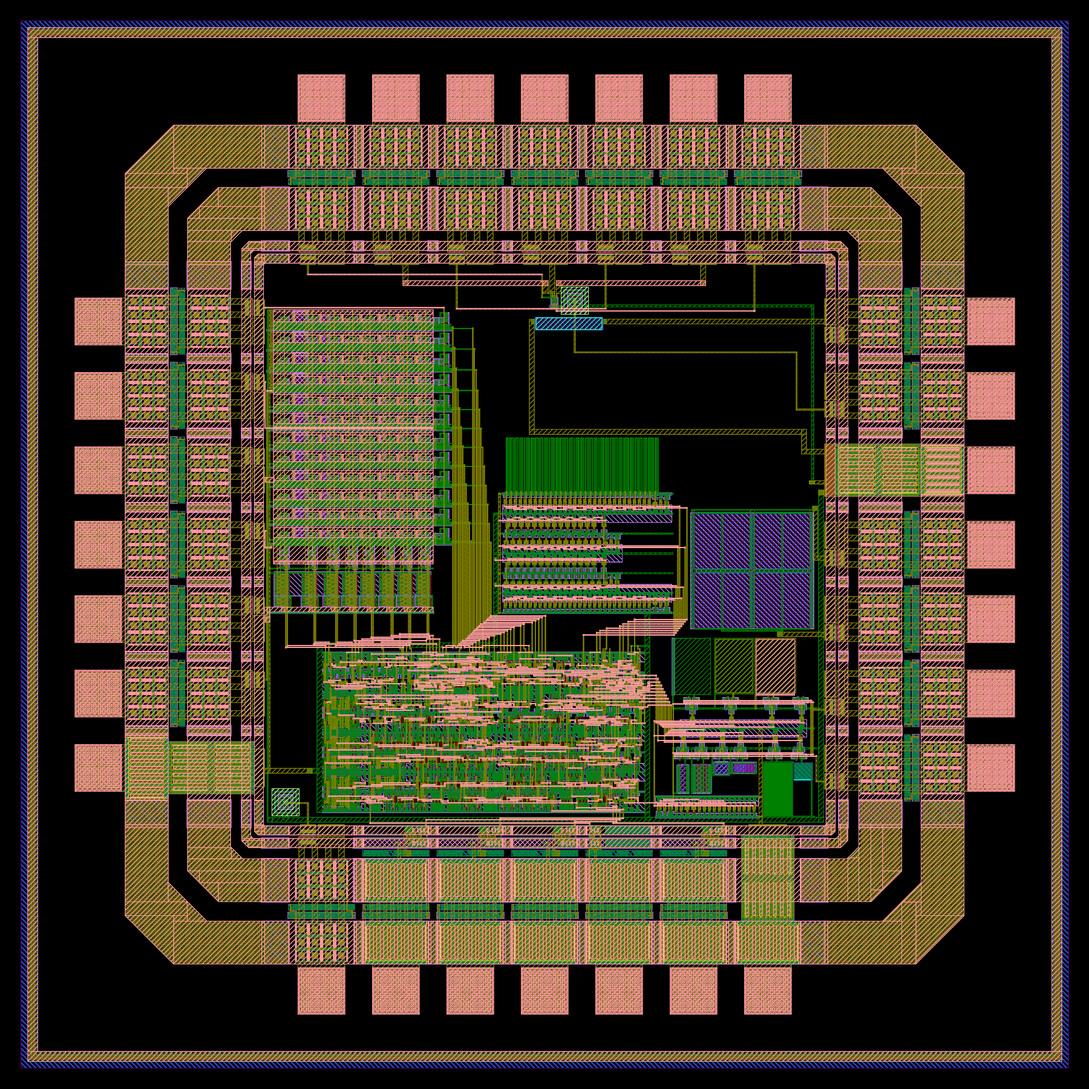
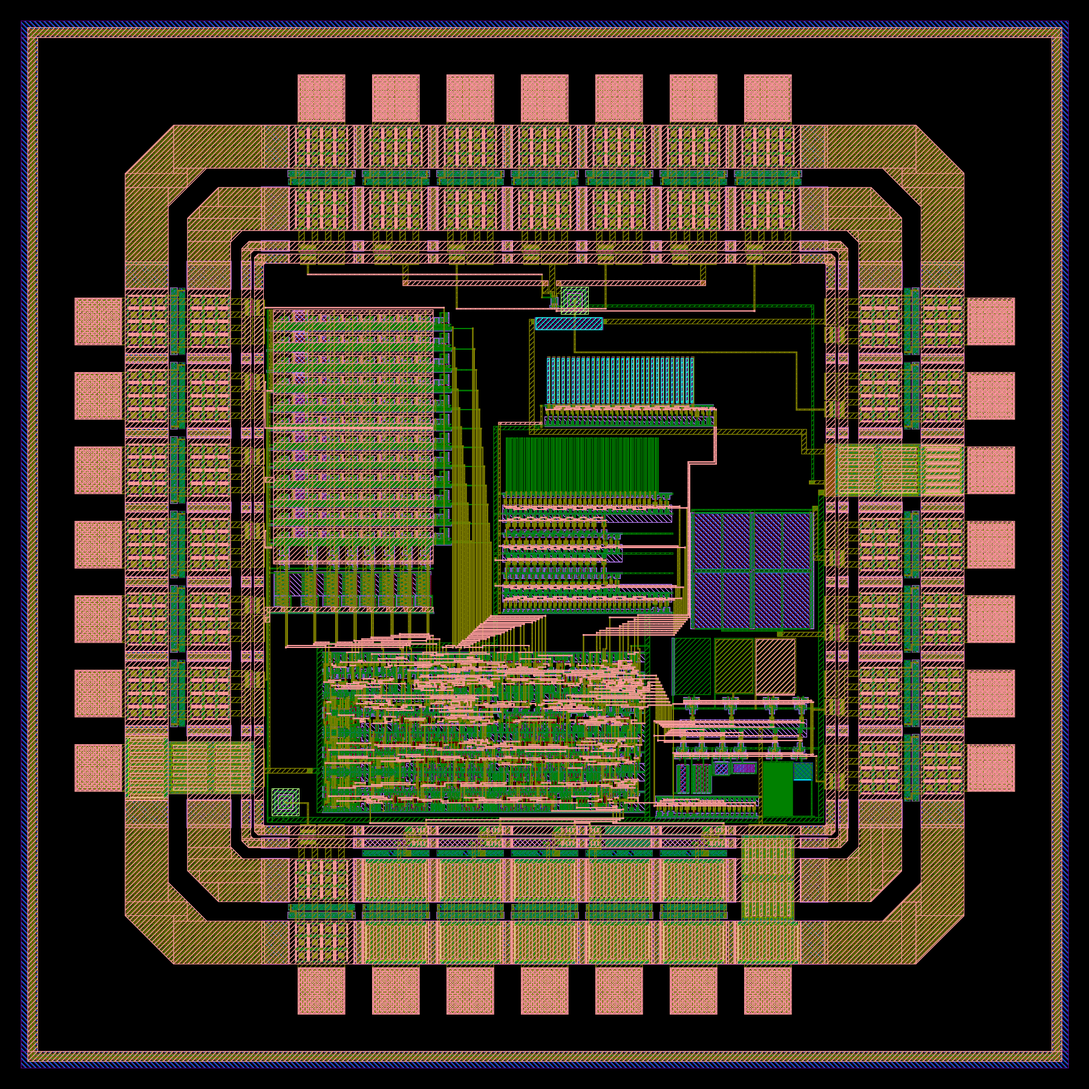
Place the resistor RO in the chip
The block sits at die (932.0, 1166.0) above the heater's return line.
en5 / in5 cross the return line in metal3, run down the gap between the
RO bank and MOS-C and join the corridor over the control block on two more
tracks to ro_en[5] / ro_in[5]; ro_in5 is no longer tied to VSS. VDD and
VSS come from the RO bank's west straps, apart from the heater's own
return. run_chip.sh: 12 blocks, official deck 46 (unchanged), rules 7-12
16 (all in the pad-ring baseline), 85 nets / 237 points PASS, no antenna
violation without diffusion; a fresh checkout reproduces the same GDS.

Changed region(s): [[0.4356, 0.3111, 0.6844, 0.4667], [0.5911, 0.56, 0.6222, 0.5911]]

diff --git a/designs/etri050/chip/assemble.py b/designs/etri050/chip/assemble.py
@@ -10,6 +10,8 @@ ring keeps its own die coordinates, 97.5-1802.5 um):
   karray        designs/etri050/array/build/karray.gds        (etri050_array.py, Magic style ETRI)
   cbcm          designs/etri050/cbcm/build/cbcm_full.gds      (etri050_cbcm.py: Magic, flattened, + PIP)
   robank        designs/etri050/ro/build/robank_flat.gds      (etri050_ro.py: Magic, flattened)
+  rores         designs/etri050/ro/build/rores_full.gds       (etri050_ro.py: Magic, flattened, + poly2
+                                                               resistors)
 
 The routes drawn here follow the rule document v1.1, not only the kit deck: VIA1/VIA2 exactly
 0.8 x 0.8 um and 0.8 um apart with 0.6 um of metal around, no via1 on a contact and no via2 on a
@@ -19,7 +21,8 @@ lines are 9 um wide, just under the 10 um wide-metal class. Every coordinate is 
 
 Floorplan (die um; the core window inside the GPIO cells is 442-1458): control block at x 537-1141,
 y 460-761 (the array above it, the CBCM block at x 1144-1440, y 454-781 to its right, the RO bank at
-x 856-1210, y 823-1146 above it right of the array's row bus); scan channel y 442-460
+x 856-1210, y 823-1146 above it right of the array's row bus, the resistor RO at x 932-1262,
+y 1162-1291 above the heater's return line); scan channel y 442-460
 under it; VSS as a metal1 line along the south and east edges from PVSS (E5) to the control block
 ground bar and PNP2, plus a separate branch from PVSS to PNP1 and the L-split substrate tap; MOS-C on
 the east edge between CHI (E3) and CLO (E4); L-split under its source force pad (N4) with the force
@@ -28,7 +31,7 @@ group of the plan (heater + PNP + reference device): PNP1 beside the L-split (37
 L-split channel and the PNP1 emitter), the heater under both, its long edge 32 um from each, so a
 heater power warms the L-split and PNP1 alike and PNP1 also sees the L-split's own heating; the
 heater return goes on its own line into PVSS. PNP2 in the far (south-west) corner next to PE2 (S1),
-about 1 mm from the heater. The ro_in inputs of the ROs not built (FO4, resistor) are tied to the
+about 1 mm from the heater. The ro_in input of the RO not built (FO4, index 3) is tied to the
 control block's ground bar.
 
 Chip boundary and seal ring (-rd seal=0 leaves both out): the MyChip MPW standard chip is 1.9 x 1.9
@@ -42,6 +45,7 @@ placements) for chip_check.py.
 usage: klayout -b -r designs/etri050/chip/assemble.py -rd repo=<repo root> [-rd out=<dir>]
        [-rd pad=<pdkv_Pad.gds>] [-rd direct=<dir with lsplit, mosc, pnp10, heater .gds>] [-rd seal=0]
        [-rd array=<karray.gds>] [-rd cbcm=<cbcm_full.gds>] [-rd robank=<robank_flat.gds>]
+       [-rd rores=<rores_full.gds>]
 """
 import json
 import os
@@ -63,10 +67,12 @@ SRC = {
     'karray': globals().get('array') or os.path.join(REPO, 'designs/etri050/array/build/karray.gds'),
     'cbcm': globals().get('cbcm') or os.path.join(REPO, 'designs/etri050/cbcm/build/cbcm_full.gds'),
     'robank': globals().get('robank') or os.path.join(REPO, 'designs/etri050/ro/build/robank_flat.gds'),
+    'rores': globals().get('rores') or os.path.join(REPO, 'designs/etri050/ro/build/rores_full.gds'),
 }
 ARRPINS = os.path.join(os.path.dirname(SRC['karray']), 'karray_pins.json')
 CBPINS = os.path.join(os.path.dirname(SRC['cbcm']), 'cbcm_pins.json')
 ROPINS = os.path.join(os.path.dirname(SRC['robank']), 'robank_pins.json')
+RRPINS = os.path.join(os.path.dirname(SRC['rores']), 'rores_pins.json')
 SEAL = str(globals().get('seal', '1')) != '0'
 PINFILE = os.path.join(REPO, 'designs/etri050/ctrl/macro/teg_ctrl_pins.txt')
 PADFILE = os.path.join(os.path.dirname(SRC['pad']), 'pad_pins.json')
@@ -244,11 +250,12 @@ rect('m1', 1131.60, 450.00, 1140.60, 465.00)              # up into the control 
 port_probe('VSS', 'E5:PVSS')
 expect('VSS', 'ctrl gnd bar', 'm1', 1136.10, 600.00)
 
-# ---- control block: ro_in inputs of the ROs not built (FO4 3, resistor 5) tied to the gnd bar --------
+# ---- control block: ro_in input of the RO not built (FO4, 3) tied to the gnd bar ----------------------
 # The gnd bar runs on up into the RO bank's bottom gnd rail (y 824.8-827.2); see the RO bank below.
+# ro_in[5]'s metal2 crosses this metal1 strip without a via (resistor RO, below).
 rect('m1', 1131.60, 753.50, 1140.60, 827.20)
 rect('m1', 1105.30, 765.00, 1140.60, 767.00)
-for i in (3, 5):
+for i in (3,):
     x1, y1, x2, y2 = pin_die(f'ro_in[{i}]')
     rect('m2', x1, y2 - 0.50, x2, 767.00)
     via(1, snap_down((x1 + x2) / 2), 766.00)
@@ -653,6 +660,58 @@ rect('m1', vx1, 763.00, vx2, vy2)
 expect('VDD', 'robank VDD strap', 'm1', (vx1 + vx2) / 2, RB[1] + 30.00)
 expect('VSS', 'robank bottom gnd rail', 'm1', RB[0] + 100.00, RB[1])
 expect('VSS', 'robank top gnd rail', 'm1', RB[0] + 100.00, RB[1] + 216.00)
+
+# ---- resistor RO (block rores, etri050_ro.py; rores_full.gds = Magic's flattened copy + the resistors) ---
+# Block origin at die (932.0, 1166.0): the free strip above the heater's return line (metal2 y 1150-1159,
+# its rise x 922-931), under PE1 (metal2 y 1298), x 932-1405. en5 / in5 leave the block's east channel at
+# its bottom edge (in5 west of en5), cross the return line in metal3, jog west at y 1096 / 1100 over the
+# free area above MOS-C, run down the gap between the RO bank (metal3 to x 1208.9) and MOS-C (no metal3;
+# its N-well from x 1214.8) and join the corridor over the control block on two more tracks (in5 822,
+# en5 818: the net with the eastern riser takes the lower track, so the two L's nest without crossing).
+# Power from the RO bank's west straps: VDD (metal1 x 857.2-863.8, up from y 1007.2) on up and east on a
+# metal1 line under the return line's rise; VSS (metal2 x 866.2-869.2, up from y 1043.2) on up, then
+# metal3 east over the rise onto the block's VSS strap.
+RR = (932.00, 1166.00)
+place('rores', *RR, name='rores')
+rrj = json.load(open(RRPINS))
+if [round(v, 2) for v in rrj['origin_die']] != list(RR):
+    raise RuntimeError(f"rores_pins.json was drawn for origin {rrj['origin_die']}, not {RR}")
+
+
+def rrpin(name):
+    x0, y0, x1, y1 = rrj['pins'][name]['box']
+    return round(RR[0] + x0, 3), round(RR[1] + y0, 3), round(RR[0] + x1, 3), round(RR[1] + y1, 3)
+
+
+RES_ROUTE = {'in5': dict(jog=1100.00, rise=1210.60, track=822.00),
+             'en5': dict(jog=1096.00, rise=1212.85, track=818.00)}
+for net, rt in RES_ROUTE.items():
+    pin = f"ro_{net[:2]}[5]"
+    px1, py1, px2, py2 = pin_die(pin)
+    pcx = round((px1 + px2) / 2, 2)
+    bx1, by1, bx2, by2 = rrpin(net)
+    bcx = round((bx1 + bx2) / 2, 2)
+    via(2, bcx, by1 + 1.00)                                # onto the channel line's bottom end
+    rect('m3', bcx - 0.60, rt['jog'] - 0.60, bcx + 0.60, by1 + 1.00)
+    rect('m3', rt['rise'] - 0.60, rt['jog'] - 0.60, bcx + 0.60, rt['jog'] + 0.60)
+    rect('m3', rt['rise'] - 0.60, rt['track'] - 0.60, rt['rise'] + 0.60, rt['jog'] + 0.60)
+    rect('m3', pcx - 1.00, rt['track'] - 0.60, rt['rise'] + 0.60, rt['track'] + 0.60)
+    via(2, pcx, rt['track'])
+    rect('m2', pcx - 0.60, py2 - 0.50, pcx + 0.60, rt['track'])     # down into the control block pin
+    expect('RO_' + net.upper(), f'ctrl {pin}', 'm2', pcx, py2 - 0.30)
+    expect('RO_' + net.upper(), f'rores {net}', 'm2', bcx, by1 + 0.30)
+    expect('RO_' + net.upper(), f'gap riser {net}', 'm3', rt['rise'], 950.00)
+rvx1, rvy1, rvx2, rvy2 = rrpin('VDD')
+rect('m1', vx1, RB[1] + 181.00, vx2, 1164.80)              # RO bank VDD strap (top y 1007.2) on up
+rect('m1', vx1, 1158.20, rvx2, 1164.80)                    # east under the return line's rise
+expect('VDD', 'rores VDD strap', 'm1', (rvx1 + rvx2) / 2, (rvy1 + rvy2) / 2)
+rsx1, rsy1, rsx2, rsy2 = rrpin('VSS')
+rect('m2', RB[0] + 10.20, RB[1] + 217.00, RB[0] + 13.20, 1172.00)  # RO bank VSS strap (top y 1043.2) on up
+vias(2, RB[0] + 10.20, 1168.00, RB[0] + 13.20, 1172.00)
+rect('m3', RB[0] + 10.20, 1168.00, rsx2, 1172.00)
+vias(2, rsx1, 1168.00, rsx2, 1172.00)
+expect('VSS', 'rores gnd rail', 'm1', RR[0] + 100.00, RR[1] + 36.00)
+expect('VSS', 'rores VSS strap', 'm2', (rsx1 + rsx2) / 2, (rsy1 + rsy2) / 2)
 
 # ---- seal ring: its three metals are one piece through its via lines and join no other net --------
 if SEAL:

diff --git a/designs/etri050/chip/README.md b/designs/etri050/chip/README.md
@@ -1,6 +1,6 @@
 # 칩 조립 pdkv
 
-PDK 모델 검증용 온칩 특성화 IC의 최상위 조립이다. 킷의 칩 조립 방식(FIR_PE MPW240925002, pong_pt1 MPW2025 STD-II)처럼 패드 링(`pdkv_Pad`)과 코어를 따로 만들어 최상위 `pdkv_Top`으로 합친다. 지금 칩은 패드 링 + 제어 블록 + 직결 기준 소자(L-split, MOS-C, PNP 2개, 히터) + Kelvin 소자 어레이 + CBCM 블록 + RO 뱅크(INV·NAND·NOR·배선)로 된 제출 가능판이고, 저항 RO는 히터 귀환선 위 빈 띠에 더한다.
+PDK 모델 검증용 온칩 특성화 IC의 최상위 조립이다. 킷의 칩 조립 방식(FIR_PE MPW240925002, pong_pt1 MPW2025 STD-II)처럼 패드 링(`pdkv_Pad`)과 코어를 따로 만들어 최상위 `pdkv_Top`으로 합친다. 지금 칩은 패드 링 + 제어 블록 + 직결 기준 소자(L-split, MOS-C, PNP 2개, 히터) + Kelvin 소자 어레이 + CBCM 블록 + RO 뱅크(INV·NAND·NOR·배선) + 저항 RO로 된 제출 가능판이다.
 
 ```
 pins.csv          28개 패드: 패드 위치(W1–W7 아래→위, N1–N7 왼→오, E1–E7 아래→위, S1–S7 왼→오), 핀, 셀, 포트, 기능, 범위
@@ -8,7 +8,7 @@ pad_ring.py       킷 28핀 GPIO 템플릿 → build/pdkv_Pad.mag, build/pad_pin
 run_pad_ring.sh   패드 링 생성 → Magic GDS(lambda=0.30(ETRI-G)) → 공식 규칙 KLayout DRC, 킷 템플릿 링과 비교
 assemble.py       블록 배치 + 배선 + 칩 경계·실링 → build/pdkv_Top.gds, build/pdkv_seal.gds, build/pdkv_nets.json(검사할 넷과 블록 위치)
 chip_check.py     금속 연결 검사(끊김, 단락, 떠 있는 금속)와 0.01 µm 격자 검사
-run_chip.sh       입력이 없으면 만들고(패드 링, 직결 소자, PDK 셀, 어레이, CBCM, RO 뱅크) 조립 → 공식 규칙 덱 → 문서 기준 금속·실링 규칙
+run_chip.sh       입력이 없으면 만들고(패드 링, 직결 소자, PDK 셀, 어레이, CBCM, RO 뱅크·저항 RO) 조립 → 공식 규칙 덱 → 문서 기준 금속·실링 규칙
                   → 연결 검사 → 안테나(scripts/antenna_rules.py)
 ```
 
@@ -42,17 +42,18 @@ bash designs/etri050/chip/run_chip.sh --rebuild   # 패드 링·직결 소자·P
 
 | 블록 | GDS | 위치(다이 좌표 µm) | 연결 |
 |---|---|---|---|
-| 제어 블록 `teg_ctrl_F` | `ctrl/macro/teg_ctrl.gds.gz`(고정 매크로, 아래) | x 537.0–1140.9, y 460.0–761.1 | 스캔 5핀 → S2–S6, vdd 막대 ← W1 PVDD, gnd 막대 ← VSS, 위 변 선택 핀 40개 → 어레이, `ro_en`·`ro_in` 0·1·2·4 ↔ RO 뱅크, `ro_in` 3·5 → gnd(블록이 없는 RO), `ro_en` 3·5는 열어 둠(출력) |
+| 제어 블록 `teg_ctrl_F` | `ctrl/macro/teg_ctrl.gds.gz`(고정 매크로, 아래) | x 537.0–1140.9, y 460.0–761.1 | 스캔 5핀 → S2–S6, vdd 막대 ← W1 PVDD, gnd 막대 ← VSS, 위 변 선택 핀 40개 → 어레이, `ro_en`·`ro_in` 0·1·2·4 ↔ RO 뱅크, 5 ↔ 저항 RO, `ro_in3` → gnd(만들지 않은 FO4), `ro_en3`은 열어 둠(출력) |
 | Kelvin 어레이 `karray` | `array/build/karray.gds`(`gen/etri050_array.py`, `../array/README.md`) | 원점 (458.0, 950.0), x 445–781, y 824–1376 | 선택선 40개 ← 제어 블록(채널·버스, 아래), ANW·ADF·ADS·ASF·ASS·AG ← 서쪽 패드 W2–W7, VDD 띠 → W1 VDD 선, VSS 띠 → 남쪽 VSS 선 |
 | CBCM `cbcm` | `cbcm/build/cbcm_full.gds`(`gen/etri050_cbcm.py`, `../cbcm/README.md`) | 원점 (1144.0, 456.0), x 1144.0–1439.8, y 454.2–780.6 | clk·en0–9 ← 제어 블록 오른쪽 변 핀, VCD → E1, VCR → E2(PADR), VDD ← S7 PVDD, VSS → 남쪽·동쪽 VSS 선 |
 | RO 뱅크 `robank` | `ro/build/robank_flat.gds`(`gen/etri050_ro.py`, Magic 평탄화 사본, `../ro/README.md`) | 원점 (856.0, 826.0), x 857.2–1208.9, y 823.0–1144.0 | ro_en·ro_in 0·1·2·4 ↔ 제어 블록 위 변 핀, VDD ← 제어 블록 vdd 막대, VSS ← 제어 블록 gnd 막대 |
+| 저항 RO `rores` | `ro/build/rores_full.gds`(`gen/etri050_ro.py`, Magic 평탄화 사본 + KLayout으로 넣은 poly2 저항 30개, `../ro/README.md`) | 원점 (932.0, 1166.0), x 933.2–1262.1, y 1161.8–1291.15 | ro_en5·ro_in5 ↔ 제어 블록 위 변 핀(RO 뱅크와 MOS-C 사이 틈으로), VDD·VSS ← RO 뱅크 서쪽 기둥 |
 | L-split | `direct/build/lsplit.gds` | 활성 영역 왼쪽 아래 (962.9, 1388.0) | force LD1F·LSF·LD2F → N2·N4·N6(PAD), sense → N3·N5·N7(PADR), LG → N1, 기판 탭 → VSS |
 | MOS-C(위아래 뒤집음) | `direct/build/mosc.gds` | x 1214.8–1438.0, y 792.6–1013.7 | 게이트 막대(아래) → CHI(E3), N-well·p+ 막대(위) → CLO(E4) |
 | PNP1 | `direct/build/pnp10.gds` | x 980.0–1029.0, y 1368.0–1417.0(L-split 바로 옆) | E → PE1(E6), B·C → VSS 가지, L-split 기판 탭과 짧은 금속1로 이어짐 |
 | 히터(180° 회전) | `direct/build/heater.gds` | x 932.0–1056.0, y 1340.0–1361.6(L-split·PNP1 아래) | A(동쪽 머리) → HT(E7 PAD), B(서쪽 머리) → PVSS 전용 귀환선 |
 | PNP2 | 같음 | x 455.0–504.0, y 458.0–507.0(남서 모서리) | E → PE2(S1), B·C → 남쪽 VSS 선 |
 
-![pdkv_Top: 패드 링 안에 제어 블록(가운데 아래), 그 오른쪽 CBCM 블록, Kelvin 어레이(왼쪽 위)와 그 오른쪽 행 선택 버스, 버스 오른쪽·제어 블록 위 RO 뱅크(맨 위 줄 위로 배선 RO 사행선), MOS-C(오른쪽, CBCM 위), L-split·PNP1·히터 열 묶음(위 가운데), PNP2(왼쪽 아래 모서리)](../../../docs/img/pdkv_top.png)
+![pdkv_Top: 패드 링 안에 제어 블록(가운데 아래), 그 오른쪽 CBCM 블록, Kelvin 어레이(왼쪽 위)와 그 오른쪽 행 선택 버스, 버스 오른쪽·제어 블록 위 RO 뱅크(맨 위 줄 위로 배선 RO 사행선)와 히터 귀환선 너머 저항 RO(셀 한 줄 위에 선 poly2 저항 30개), MOS-C(오른쪽, CBCM 위), L-split·PNP1·히터 열 묶음(위 가운데), PNP2(왼쪽 아래 모서리)](../../../docs/img/pdkv_top.png)
 
 ![열 묶음 확대: L-split(가운데 왼쪽)과 force 팬아웃, 바로 옆 PNP1, 둘 아래 히터, sense 선(가는 금속3)과 히터 HT·귀환선(굵은 금속2)](../../../docs/img/pdkv_top_thermal.png)
 
@@ -62,7 +63,7 @@ bash designs/etri050/chip/run_chip.sh --rebuild   # 패드 링·직결 소자·P
 
 RO 뱅크는 어레이 행 버스 오른쪽, 제어 블록 위에 넣었다: 제어 블록 위 변의 ro_en·ro_in 핀과 vdd·gnd 막대에 가깝고, 위 끝(배선 RO 사행선, y 1144.0)은 히터 귀환선(y 1150) 아래다. CBCM은 제어 블록 오른쪽에 두어 제어 블록의 CBCM 핀(오른쪽 변)과 E1·E2(VCD, VCR), S7 PVDD에 가깝다.
 
-남은 빈 자리(칩 GDS의 모든 층을 2 µm 격자로 찍어 잰 것): 히터 귀환선 위 띠 x 932–1405, y 1160–1297(아래 귀환선, 위 PE1 금속2 y 1298, 동쪽 PE1 세로 x 1406; 저항 RO를 넣을 자리), MOS-C 위 x 1184–1416, y 1022–1150, 행 버스 위 x 836–922, y 1144–1376, 제어 블록 왼쪽 x 452–536, y 544–762.
+저항 RO는 RO 뱅크 자리에 들어가지 않아, 칩 GDS의 모든 층을 2 µm 격자로 찍어 찾은 빈 띠(히터 귀환선 위 x 932–1405, y 1160–1297: 아래 귀환선 금속2, 위 PE1 금속2 y 1298, 서쪽 귀환선 세로 x 922–931, 동쪽 PE1 세로 x 1406)의 서쪽에 넣었다(x 933.2–1262.1, y 1161.8–1291.15; PE1까지 6.85 µm). 열 묶음과는 히터 아래 변(y 1340)까지 48.85 µm 떨어지고, RO는 열 측정과 따로 켠다. 남은 빈 자리: 같은 띠 동쪽 x 1264–1405, MOS-C 위 x 1216–1416, y 1022–1150(저항 RO의 en5·in5 금속3이 y 1095–1101과 x 1257–1262로 지남), 행 버스 위 x 836–922, y 1144–1376(저항 RO의 VDD·VSS 선이 x 857–869와 y 1158–1172로 지남), 제어 블록 왼쪽 x 452–536, y 544–762.
 
 ### 배선 규칙
 
@@ -81,6 +82,7 @@ RO 뱅크는 어레이 행 버스 오른쪽, 제어 블록 위에 넣었다: 제
   2. 포트 가운데(y 1060–1066) → 금속1(x 1434–1438)로 동쪽을 따라 올라가 y 1381–1385로 PNP1 콜렉터 고리(동쪽 변) → 짧은 금속1로 L-split 기판 탭. 온도계와 기준 소자의 접지에 디지털 전류가 흐르지 않게 한다.
   3. 포트 위쪽(y 1114–1123) ← 히터 B(서쪽) 머리의 전용 귀환선(금속2 9 µm). 귀환선은 RO 자리(y 1142 아래)를 피해 y 1150–1159로 동쪽으로 간다.
 - RO 뱅크: VDD는 제어 블록 vdd 막대를 위로 늘이고(y 772까지), 금속1 9 µm 선(y 763–772)으로 동쪽에 가 블록 서쪽 VDD 기둥(금속1, x 857.2–863.8)으로 올라간다. 이 선은 어레이 채널의 금속2 꽂이 아래를 지나고 제어 블록 위 변(y 761.1)과 1.9 µm 떨어진다. VSS는 제어 블록 gnd 막대(금속1 9 µm, x 1131.6–1140.6)를 위로 늘여 블록 맨 아래 gnd 레일(y 824.8–827.2)에 붙인다(블록 안의 gnd 레일은 서쪽 VSS 기둥으로 모두 이어짐). RO 하나가 돌 때 1.1–1.4 mA(5.4–6.8 mW, `../ro/README.md`)라 넷을 함께 켜도 약 5 mA로, 9 µm 선의 가정 한계(9 mA) 안이다.
+- 저항 RO: RO 뱅크의 서쪽 기둥에서 받는다. VDD는 RO 뱅크 VDD 기둥(금속1 x 857.2–863.8, 위 끝 y 1007.2)을 y 1164.8까지 늘이고 금속1 6.6 µm 선(y 1158.2–1164.8)으로 동쪽, 히터 귀환선의 세로 부분(금속2 x 922–931) 아래를 지나 블록 VDD 기둥(x 933.2–939.8)으로. VSS는 RO 뱅크 VSS 기둥(금속2 x 866.2–869.2, 위 끝 y 1043.2)을 y 1172까지 늘여 비아2, 금속3 4 µm 선(y 1168–1172)으로 귀환선 세로 부분 위를 건너 블록 VSS 기둥(금속2 x 942.2–945.2)에 비아2. 히터 귀환선(PVSS 전용)에는 닿지 않는다. 저항 RO는 돌 때 0.7 mA(3.4 mW)이고, RO 다섯을 함께 켜도 RO 뱅크 VDD 기둥(6.6 µm)에 약 5.5 mA다.
 - PNP의 베이스(N-well 고리)는 금속1 다리로 콜렉터 고리에 묶어 다이오드 연결로 쓴다(이미터만 패드로).
 - 히터 전류(5 V에서 6.7 mA)는 PVSS 패드·본딩선에서만 코어 접지와 만난다. 그 저항(금선 지름 25 µm·길이 2 mm로 잡으면 약 0.1 Ω, 리드 포함 0.1–0.2 Ω)이 만드는 1 mV 안팎의 접지 이동은 PNP1·PNP2에 똑같이 걸리고, 전류를 바꿔 잰 V_EB 차이(2·3전류법)와 PNP1−PNP2 차이에서는 빠진다. V_EB 하나를 절대값으로 읽을 때는 히터를 끄고 잰다.
 
@@ -107,7 +109,12 @@ RO 뱅크는 어레이 행 버스 오른쪽, 제어 블록 위에 넣었다: 제
 ### RO 뱅크
 
 - ro_en0·1·2·4, ro_in0·1·2·4: 블록 동쪽 채널(금속2 8줄, 다이 x 1184–1209)이 블록 아래 변(y 823)에서 금속2로 내려와, 제어 블록 위 통로의 금속3 트랙(y 786–814, 4 µm 간격, 넷마다 하나)으로 서쪽에 가서 금속2로 제어 블록 위 변 핀(y 761)까지 내려간다. 트랙은 x 1019–1209에만 있어 같은 높이의 어레이 채널 트랙(x 952 서쪽)과 x로 나뉘고, 가장 낮은 트랙(y 785.4)은 CBCM 위 변(y 780.6)과 4.8 µm 떨어진다. 세로 금속2(채널 쪽, 핀 쪽)는 넷마다 x가 달라 서로 만나지 않고, 다른 넷의 금속3 트랙과는 층이 달라 건너기만 한다.
-- ro_in3·5(블록이 없는 RO)는 제어 블록 gnd 막대 위 금속1 띠(y 765–767)에 비아1로 묶고, ro_en3·5(제어 블록 출력)는 열어 둔다.
+- ro_in3(만들지 않은 FO4)은 제어 블록 gnd 막대 위 금속1 띠(y 765–767)에 비아1로 묶고, ro_en3(제어 블록 출력)은 열어 둔다.
+
+### 저항 RO
+
+- en5·in5: 블록 동쪽 채널 선(금속2, 다이 x 1260.5–1261.7·1257.2–1258.4)의 아래 끝(y 1161.8)에 비아2를 두고 금속3으로 히터 귀환선(금속2 y 1150–1159)을 건너 내려와, MOS-C 위 빈 곳에서 서쪽으로(en5 y 1096, in5 y 1100) 꺾어 RO 뱅크(금속3 동쪽 끝 x 1208.9)와 MOS-C(금속3 없음, N-well x 1214.8부터) 사이 틈을 내려간다(in5 x 1210.0–1211.2, en5 x 1212.25–1213.45, 서로 1.05 µm). 제어 블록 위 통로에서 트랙 둘(en5 y 818, in5 y 822; RO 뱅크 트랙 y 786–814 위)로 서쪽에 가서 금속2로 ro_en[5]·ro_in[5] 핀(y 761)까지 내려간다. 동쪽 세로선을 쓰는 en5가 아래 꺾임·아래 트랙을 맡아 두 L이 같은 층에서 만나지 않는다.
+- ro_in5는 이전 판의 gnd 묶음(비아1)을 풀고, 그 금속1 띠 위를 금속2로 비아 없이 지난다.
 
 ### 칩 경계·실링
 
@@ -131,28 +138,28 @@ RO 뱅크는 어레이 행 버스 오른쪽, 제어 블록 위에 넣었다: 제
 1. 킷의 공식 규칙 변환 덱(KLayout)으로 칩 전체.
 2. `scripts/metal_rules.py`: 규칙 7–12(접촉, 금속1–3, 비아1–2)를 문서 값으로(비아 간격 0.8 µm), 실링 구역은 덱처럼 빼고 4.21 그림과 도형이 같은지(층마다 XOR), 구역 안 다른 층과 링 안쪽 30 µm 안의 도형이 없는지 본다. 패드 링 단독에서도 나오는 표시는 따로 센다. 검사기 확인: VIA2 줄 끊기, 접촉 줄 넓히기, 링에 NSD 넣기, 링 안쪽 20 µm에 금속 넣기를 모두 잡는다.
 3. `chip_check.py`: 금속1–3·비아1–2만으로 연결을 뽑는다(소자·저항이 단자를 잇지 않음).
-   - 넷 83개(VDD, VSS, 스캔 5개, PE1·PE2, CHI, CLO, HT, LG, D1, S, D2, 실링, 어레이 선택선 40개, AG, ANW, ADF, ADS, SRC, CBCM_CLK, CBCM_EN0–9, VCD, VCR, RO_EN0·1·2·4, RO_IN0·1·2·4)마다 패드 포트·블록 핀·채널 트랙의 점 229개가 한 넷에 있는지(끊김). 실링은 금속1–3이 비아 줄로 한 덩어리인지 본다.
-   - 블록마다 따로 뽑은 금속 넷(패드 링 62, 실링 1, 제어 블록 662, L-split 5, MOS-C 2, PNP 3 × 2, 히터 2, 어레이 75, CBCM 66, RO 뱅크 138)의 한 점을 칩에서 찍어, 칩의 한 넷에 모인 블록 넷이 그 넷의 점 아래에 있는 블록 넷(그 넷이 잇도록 그린 것)과 정확히 같은지 본다: 넷 사이 단락, 블록 안 단락, 점으로 밝히지 않은 블록 넷(어레이 안 G·D·DS 노드 등)으로 새는 것. 어레이를 넣으며 이 기준을 조였다. 이전 판은 칩 넷에서 찾은 블록 넷을 그대로 기대값으로 삼아, 배선이 밝히지 않은 블록 넷에 닿으면 놓쳤다(행 버스 하나를 어레이 G 선에 잇거나 COL_SEL0의 어레이 점을 지운 시험: 이전 판 PASS, 지금 판 SHORT).
+   - 넷 85개(VDD, VSS, 스캔 5개, PE1·PE2, CHI, CLO, HT, LG, D1, S, D2, 실링, 어레이 선택선 40개, AG, ANW, ADF, ADS, SRC, CBCM_CLK, CBCM_EN0–9, VCD, VCR, RO_EN0·1·2·4·5, RO_IN0·1·2·4·5)마다 패드 포트·블록 핀·채널 트랙의 점 237개가 한 넷에 있는지(끊김). 실링은 금속1–3이 비아 줄로 한 덩어리인지 본다.
+   - 블록마다 따로 뽑은 금속 넷(패드 링 62, 실링 1, 제어 블록 662, L-split 5, MOS-C 2, PNP 3 × 2, 히터 2, 어레이 75, CBCM 66, RO 뱅크 138, 저항 RO 66)의 한 점을 칩에서 찍어, 칩의 한 넷에 모인 블록 넷이 그 넷의 점 아래에 있는 블록 넷(그 넷이 잇도록 그린 것)과 정확히 같은지 본다: 넷 사이 단락, 블록 안 단락, 점으로 밝히지 않은 블록 넷(어레이 안 G·D·DS 노드 등)으로 새는 것. 어레이를 넣으며 이 기준을 조였다. 이전 판은 칩 넷에서 찾은 블록 넷을 그대로 기대값으로 삼아, 배선이 밝히지 않은 블록 넷에 닿으면 놓쳤다(행 버스 하나를 어레이 G 선에 잇거나 COL_SEL0의 어레이 점을 지운 시험: 이전 판 PASS, 지금 판 SHORT).
    - 블록에 닿지 않은 배선 금속(떠 있는 조각), 0.01 µm 격자를 벗어난 좌표.
    - 검사기 자체 확인: 일부러 스캔 트랙 둘을 잇기, LG 비아2 지우기, 제어 블록 핀 둘을 잇기, 떠 있는 금속 넣기, 행 버스를 어레이 G 선에 잇기를 하면 각각 SHORT·OPEN·SHORT·FLOATING·SHORT로 잡힌다.
-4. 블록 LVS는 블록 단계에서 한다(제어 블록 qflow·킷 Netgen, L-split·MOS-C·어레이·CBCM·RO 뱅크 etri-check). GPIO 셀, pnp10, 히터는 ETRI·PDK 레이아웃이라 킷 흐름처럼 핀만 본다.
+4. 블록 LVS는 블록 단계에서 한다(제어 블록 qflow·킷 Netgen, L-split·MOS-C·어레이·CBCM·RO 뱅크·저항 RO etri-check; 저항 RO는 저항을 두 핀 블랙박스로 비교). GPIO 셀, pnp10, 히터는 ETRI·PDK 레이아웃이라 킷 흐름처럼 핀만 본다.
 5. `scripts/antenna_rules.py`: 규칙 문서 v1.1의 안테나 규칙 3.PL1.ANT(필드 poly / 게이트 ≤ 200), 8.MET1·10.MET2·12.MET3.ANT(금속 / 게이트 ≤ 400). 킷 KLayout 덱에는 없고, ETRI Calibre 덱은 poly 규칙만 켜 두었다(금속 규칙은 2023-11-23부터 주석). 게이트는 Calibre 덱처럼 NGATE·PGATE로 나눠 넷마다 종류별 비 중 큰 쪽을 보고(모든 게이트로 나누는 Assura 덱보다 엄함), 연결은 식각 단계별(그 층까지)과 완성 칩 둘 다 본다. 다이오드는 인정하지 않되, 넘는 넷이 그 단계에서 소스·드레인·탭 확산에 닿아 있는지(전하가 빠지는 길) 따로 센다. 검사기 확인: 게이트 하나에 금속2 1000 µm를 단 시험은 668배로 잡히고, 같은 금속1에 n+ 확산을 달면 "확산에 닿음"으로 바뀐다.
 
-### 결과 (2026-11-01, 작업 환경 KLayout 0.28.16, 킷 111dc09, 77 s)
+### 결과 (2026-11-01, 작업 환경 KLayout 0.28.16, 킷 111dc09, 90 s)
 
-이번 결과는 Codespace가 아닌 다른 리눅스 환경(Ubuntu 패키지 KLayout 0.28.16, 킷 111dc09)에서 같은 `run_chip.sh`로 얻었다(이때 `chip_check.py`·`antenna_rules.py`의 `top_circuit()`을 0.28에도 있는 `each_circuit_top_down()`으로 바꿈). 이 환경이 Codespace와 같은 결과를 내는지는 RO 뱅크를 넣기 전 상태(PR #14 병합 f3433f9)를 새 작업 트리에서 다시 돌려 확인했다: DRC 46·문서 규칙 16(모두 기준선)·넷 75개 점 214개 PASS·안테나 신호 최대(poly 22, 금속1 142·127, 금속2 210·185, 금속3 326·42)가 아래 이전 판 Codespace 기록과 모두 같다.
+이번 결과는 Codespace가 아닌 다른 리눅스 환경(Ubuntu 패키지 KLayout 0.28.16, 킷 111dc09)에서 같은 `run_chip.sh`로 얻었다(이때 `chip_check.py`·`antenna_rules.py`의 `top_circuit()`을 0.28에도 있는 `each_circuit_top_down()`으로 바꿈). 이 환경이 Codespace와 같은 결과를 내는지는 RO 뱅크를 넣기 전 상태(PR #14 병합 f3433f9)를 새 작업 트리에서 다시 돌려 확인했다: DRC 46·문서 규칙 16(모두 기준선)·넷 75개 점 214개 PASS·안테나 신호 최대(poly 22, 금속1 142·127, 금속2 210·185, 금속3 326·42)가 아래 이전 판 Codespace 기록과 모두 같다. 저항 RO까지 넣은 지금 상태도 새 작업 트리에서 입력부터 다시 만들어 돌렸고(2분 46초), 결과 요약과 RO 블록·칩 GDS가 층마다 XOR 0으로 같았다.
 
 | 항목 | 결과 |
 |---|---|
-| `pdkv_Top.gds` | 1900 × 1900 µm(칩 경계 0–1900 µm, 패드 링 97.5–1802.5 µm로 FIR_PE·pong 최상위와 같은 자리), 블록 11개(실링, 어레이, CBCM, RO 뱅크 포함) |
-| 공식 규칙 KLayout DRC | 46개로 어레이·CBCM·RO 뱅크를 넣기 전과 같다: 5.NSD.S1 14개는 패드 링 단독 결과와 위치까지 같다(GPIO 셀 안). 21.SEAL.W_CONT 12·W_VIA2 12·W_VIA1 8개는 실링의 접촉·비아 줄(3·3·2줄 × 4변)로, 덱이 4.21 그림의 간격을 선폭으로 읽어 생긴 표시다(위 칩 경계·실링 절) |
+| `pdkv_Top.gds` | 1900 × 1900 µm(칩 경계 0–1900 µm, 패드 링 97.5–1802.5 µm로 FIR_PE·pong 최상위와 같은 자리), 블록 12개(실링, 어레이, CBCM, RO 뱅크, 저항 RO 포함) |
+| 공식 규칙 KLayout DRC | 46개로 어레이·CBCM·RO 뱅크·저항 RO를 넣기 전과 같다: 5.NSD.S1 14개는 패드 링 단독 결과와 위치까지 같다(GPIO 셀 안). 21.SEAL.W_CONT 12·W_VIA2 12·W_VIA1 8개는 실링의 접촉·비아 줄(3·3·2줄 × 4변)로, 덱이 4.21 그림의 간격을 선폭으로 읽어 생긴 표시다(위 칩 경계·실링 절) |
 | 규칙 7–12·실링 4.21, 문서 값 | 16개, 모두 11.VIA2.S1 — 패드 링 단독에도 같은 자리에 있다(ETRI GPIO 셀 안 비아2 간격 0.65 µm, 킷 덱의 0.5 µm는 넘음. 킷 pong_pt1의 ETRI Calibre 요약에도 11.VIA2.S1 8개). 실링은 그림과 층마다 같고, 배선·블록에서 새로 생긴 것 0 |
-| 금속 연결 | 넷 83개(점 229개) 모두 한 넷, 단락 0(밝히지 않은 블록 넷으로 새는 것 포함), 떠 있는 금속 0 |
+| 금속 연결 | 넷 85개(점 237개) 모두 한 넷, 단락 0(밝히지 않은 블록 넷으로 새는 것 포함), 떠 있는 금속 0 |
 | 0.01 µm 격자 | 벗어난 좌표 0 |
 | 안테나, 문서 값 | 넘는 넷 6개, 모두 VDD·VSS(금속1·2·3)이고 단계마다 확산에 닿아 있다. 전원 격자 금속은 넓은데 거기 묶인 게이트(제어 블록의 상수 입력 등)는 작아 비가 크게 나온다. 확산 없이 넘는 넷 0. 신호 넷 최대: poly 22, 금속1 182(RO 뱅크 배선 RO의 사행선 넷, 완성 칩, 확산 있음)·127(ROW_SEL8, 식각 단계, 확산 없음), 금속2 210(ROW_SEL11)·185, 금속3 326(제어 블록 안 넷, 확산 있음)·42(LG, 확산 없음) |
 
-RO 뱅크를 넣기 전(PR #14, Codespace 108 s)에는 블록 10개, 연결 검사 넷 75개(점 214개), 안테나 금속1 신호 최대 142(ROW_SEL8)였다. 전원 넷의 비는 그때 VSS 금속1 11211·VDD 5068에서 지금 1802·1821로 줄었다: RO 뱅크가 VDD·VSS에 묶은 NAND·NOR의 B 입력 게이트가 분모에 더해졌다. CBCM을 넣기 전(PR #13, 101 s)에는 블록 9개, 연결 검사 넷 62개(점 183개)였다(안테나 수치는 CBCM 전과 같다). 어레이를 넣기 전(PR #12, 82 s)에는 블록 8개, 연결 검사 넷 17개(점 50개)였고, 실링을 넣기 전(PR #11, 77 s)에는 칩 범위가 패드 링과 같은 97.5–1802.5 µm, 연결 검사 넷 16개(점 47개)였다.
+저항 RO를 넣기 전(RO 뱅크까지, 77 s)에는 블록 11개, 연결 검사 넷 83개(점 229개)였고 DRC·문서 규칙·안테나 신호 최대는 지금과 같다(전원 넷 금속1 비 VSS 1802·VDD 1821 → 1866·1838). RO 뱅크를 넣기 전(PR #14, Codespace 108 s)에는 블록 10개, 연결 검사 넷 75개(점 214개), 안테나 금속1 신호 최대 142(ROW_SEL8)였다. 전원 넷의 비는 그때 VSS 금속1 11211·VDD 5068에서 지금 1802·1821로 줄었다: RO 뱅크가 VDD·VSS에 묶은 NAND·NOR의 B 입력 게이트가 분모에 더해졌다. CBCM을 넣기 전(PR #13, 101 s)에는 블록 9개, 연결 검사 넷 62개(점 183개)였다(안테나 수치는 CBCM 전과 같다). 어레이를 넣기 전(PR #12, 82 s)에는 블록 8개, 연결 검사 넷 17개(점 50개)였고, 실링을 넣기 전(PR #11, 77 s)에는 칩 범위가 패드 링과 같은 97.5–1802.5 µm, 연결 검사 넷 16개(점 47개)였다.
 
 ## 다음 단계
 
-ETRI 답(force 포트, 본딩도, 리포트 형식, 전류 밀도)을 반영하고, 히터 귀환선 위 빈 띠에 저항 RO(제어 블록 5번)를 따로 블록으로 더한다. RO 뱅크(INV·NAND·NOR·배선)는 넣었다(`../ro/README.md`). FO4 RO는 남은 어느 자리에도 들어가지 않아 계획서대로 뺀다. CBCM은 넣었다(`../cbcm/README.md`). Kelvin 어레이는 NMOS·PMOS 행을 모두 넣었다(`../array/README.md`). 단계마다 `run_chip.sh`로 칩 전체 검사를 다시 통과시킨다.
+ETRI 답(force 포트, 본딩도, 리포트 형식, 전류 밀도)을 반영한다. RO 뱅크(INV·NAND·NOR·배선)와 저항 RO는 넣었다(`../ro/README.md`). FO4 RO는 남은 어느 자리에도 들어가지 않아 계획서대로 뺀다. CBCM은 넣었다(`../cbcm/README.md`). Kelvin 어레이는 NMOS·PMOS 행을 모두 넣었다(`../array/README.md`). 단계마다 `run_chip.sh`로 칩 전체 검사를 다시 통과시킨다.
